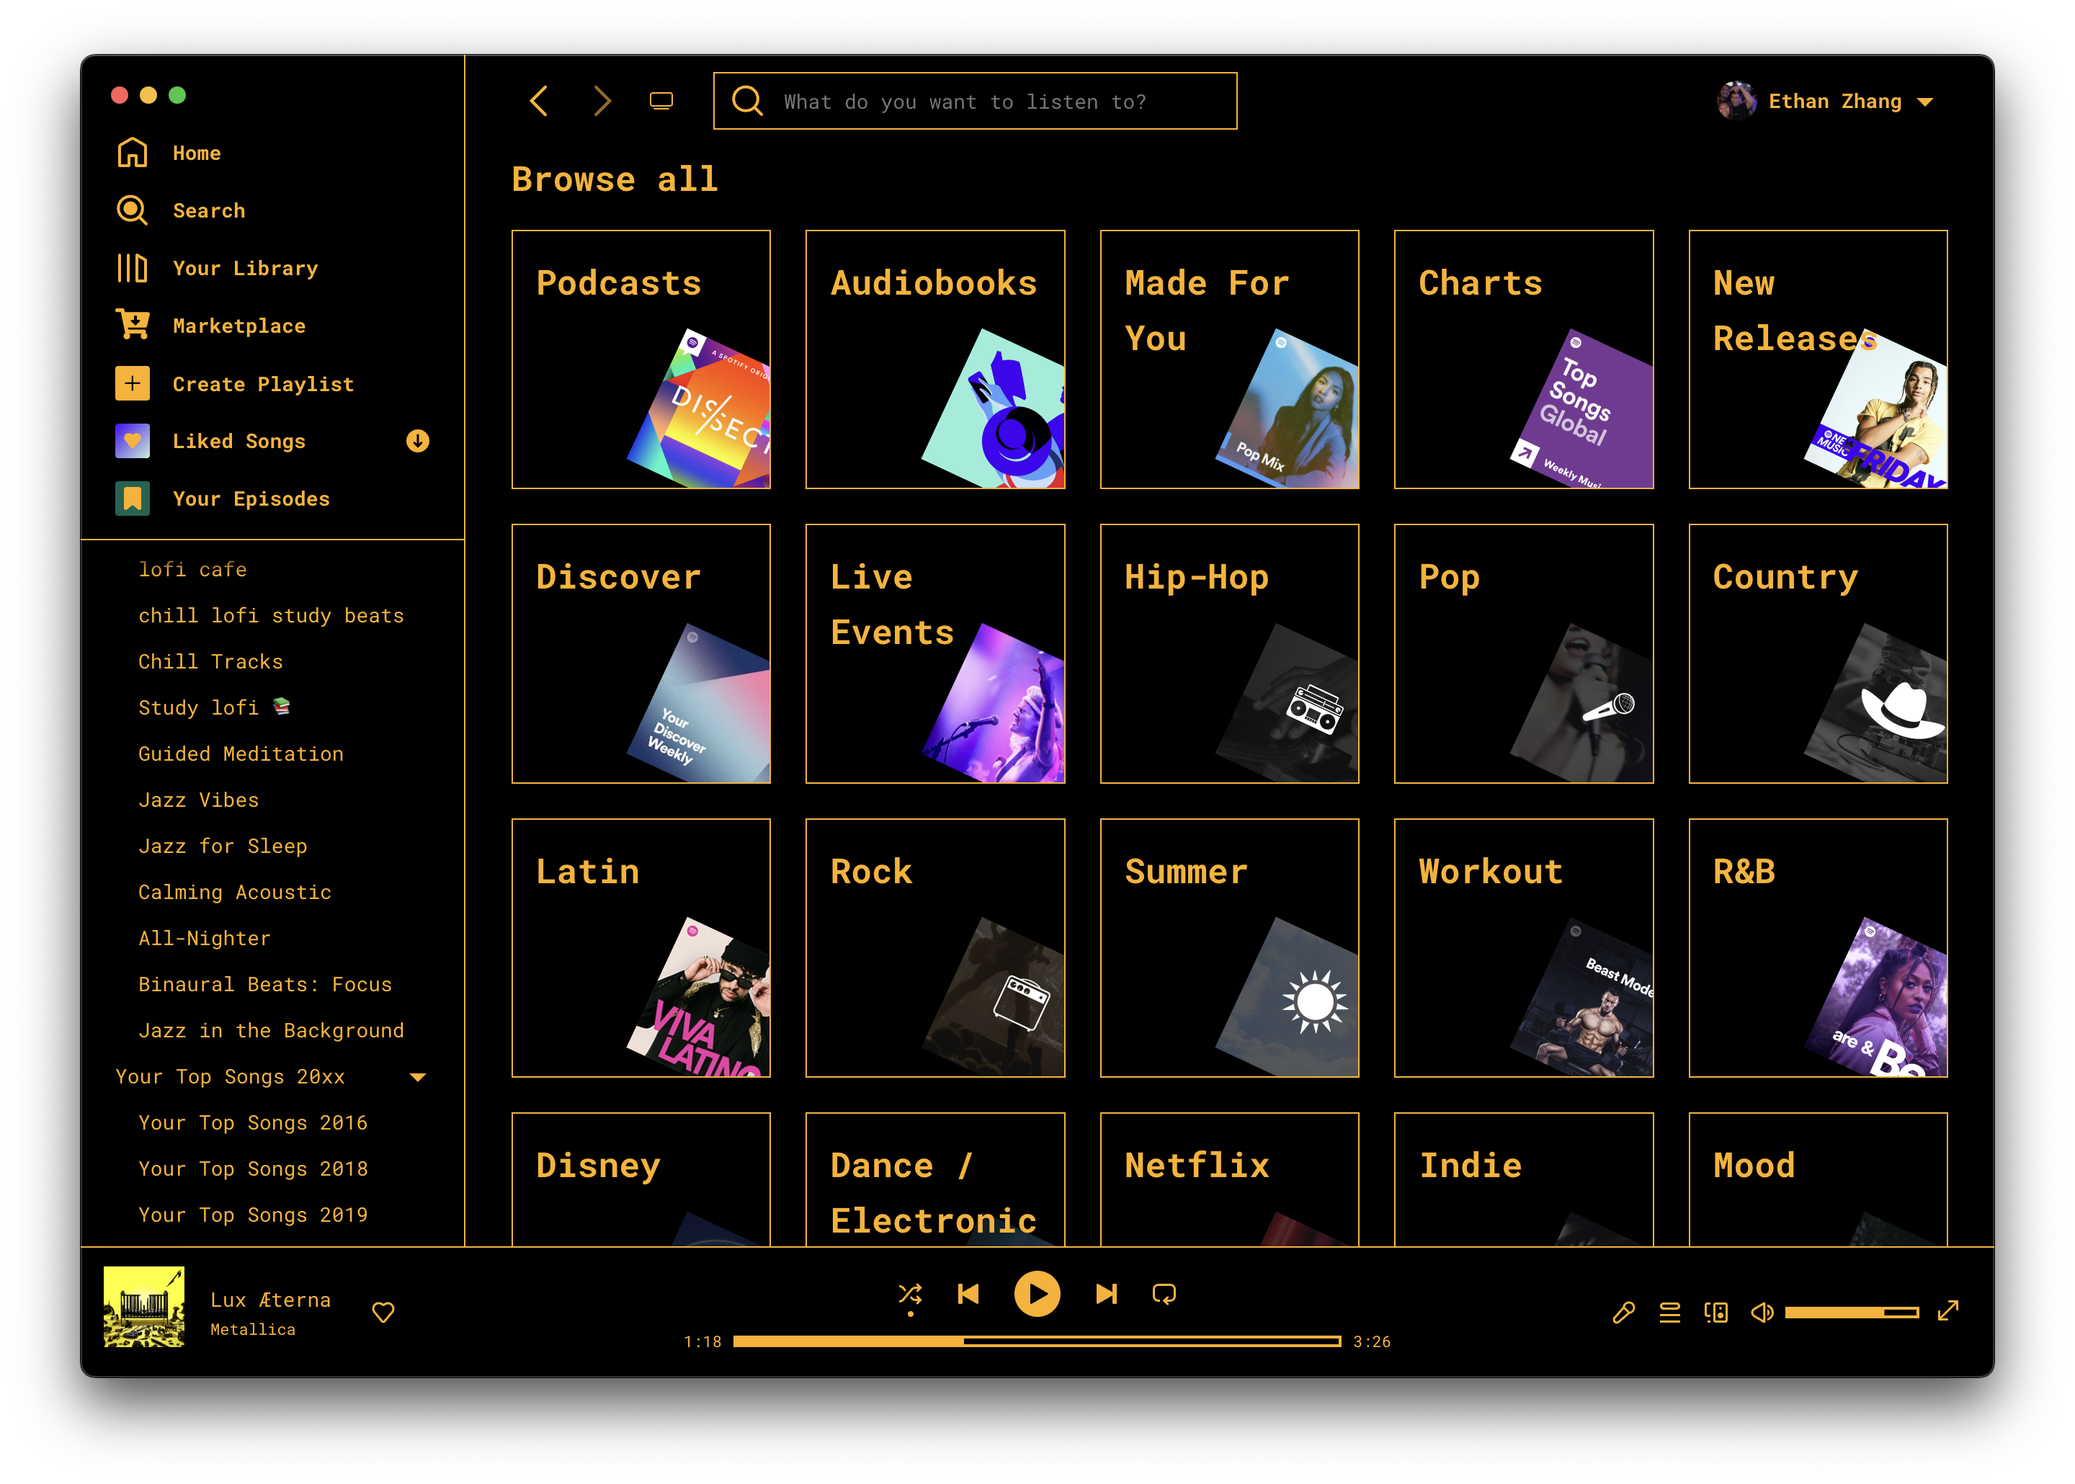
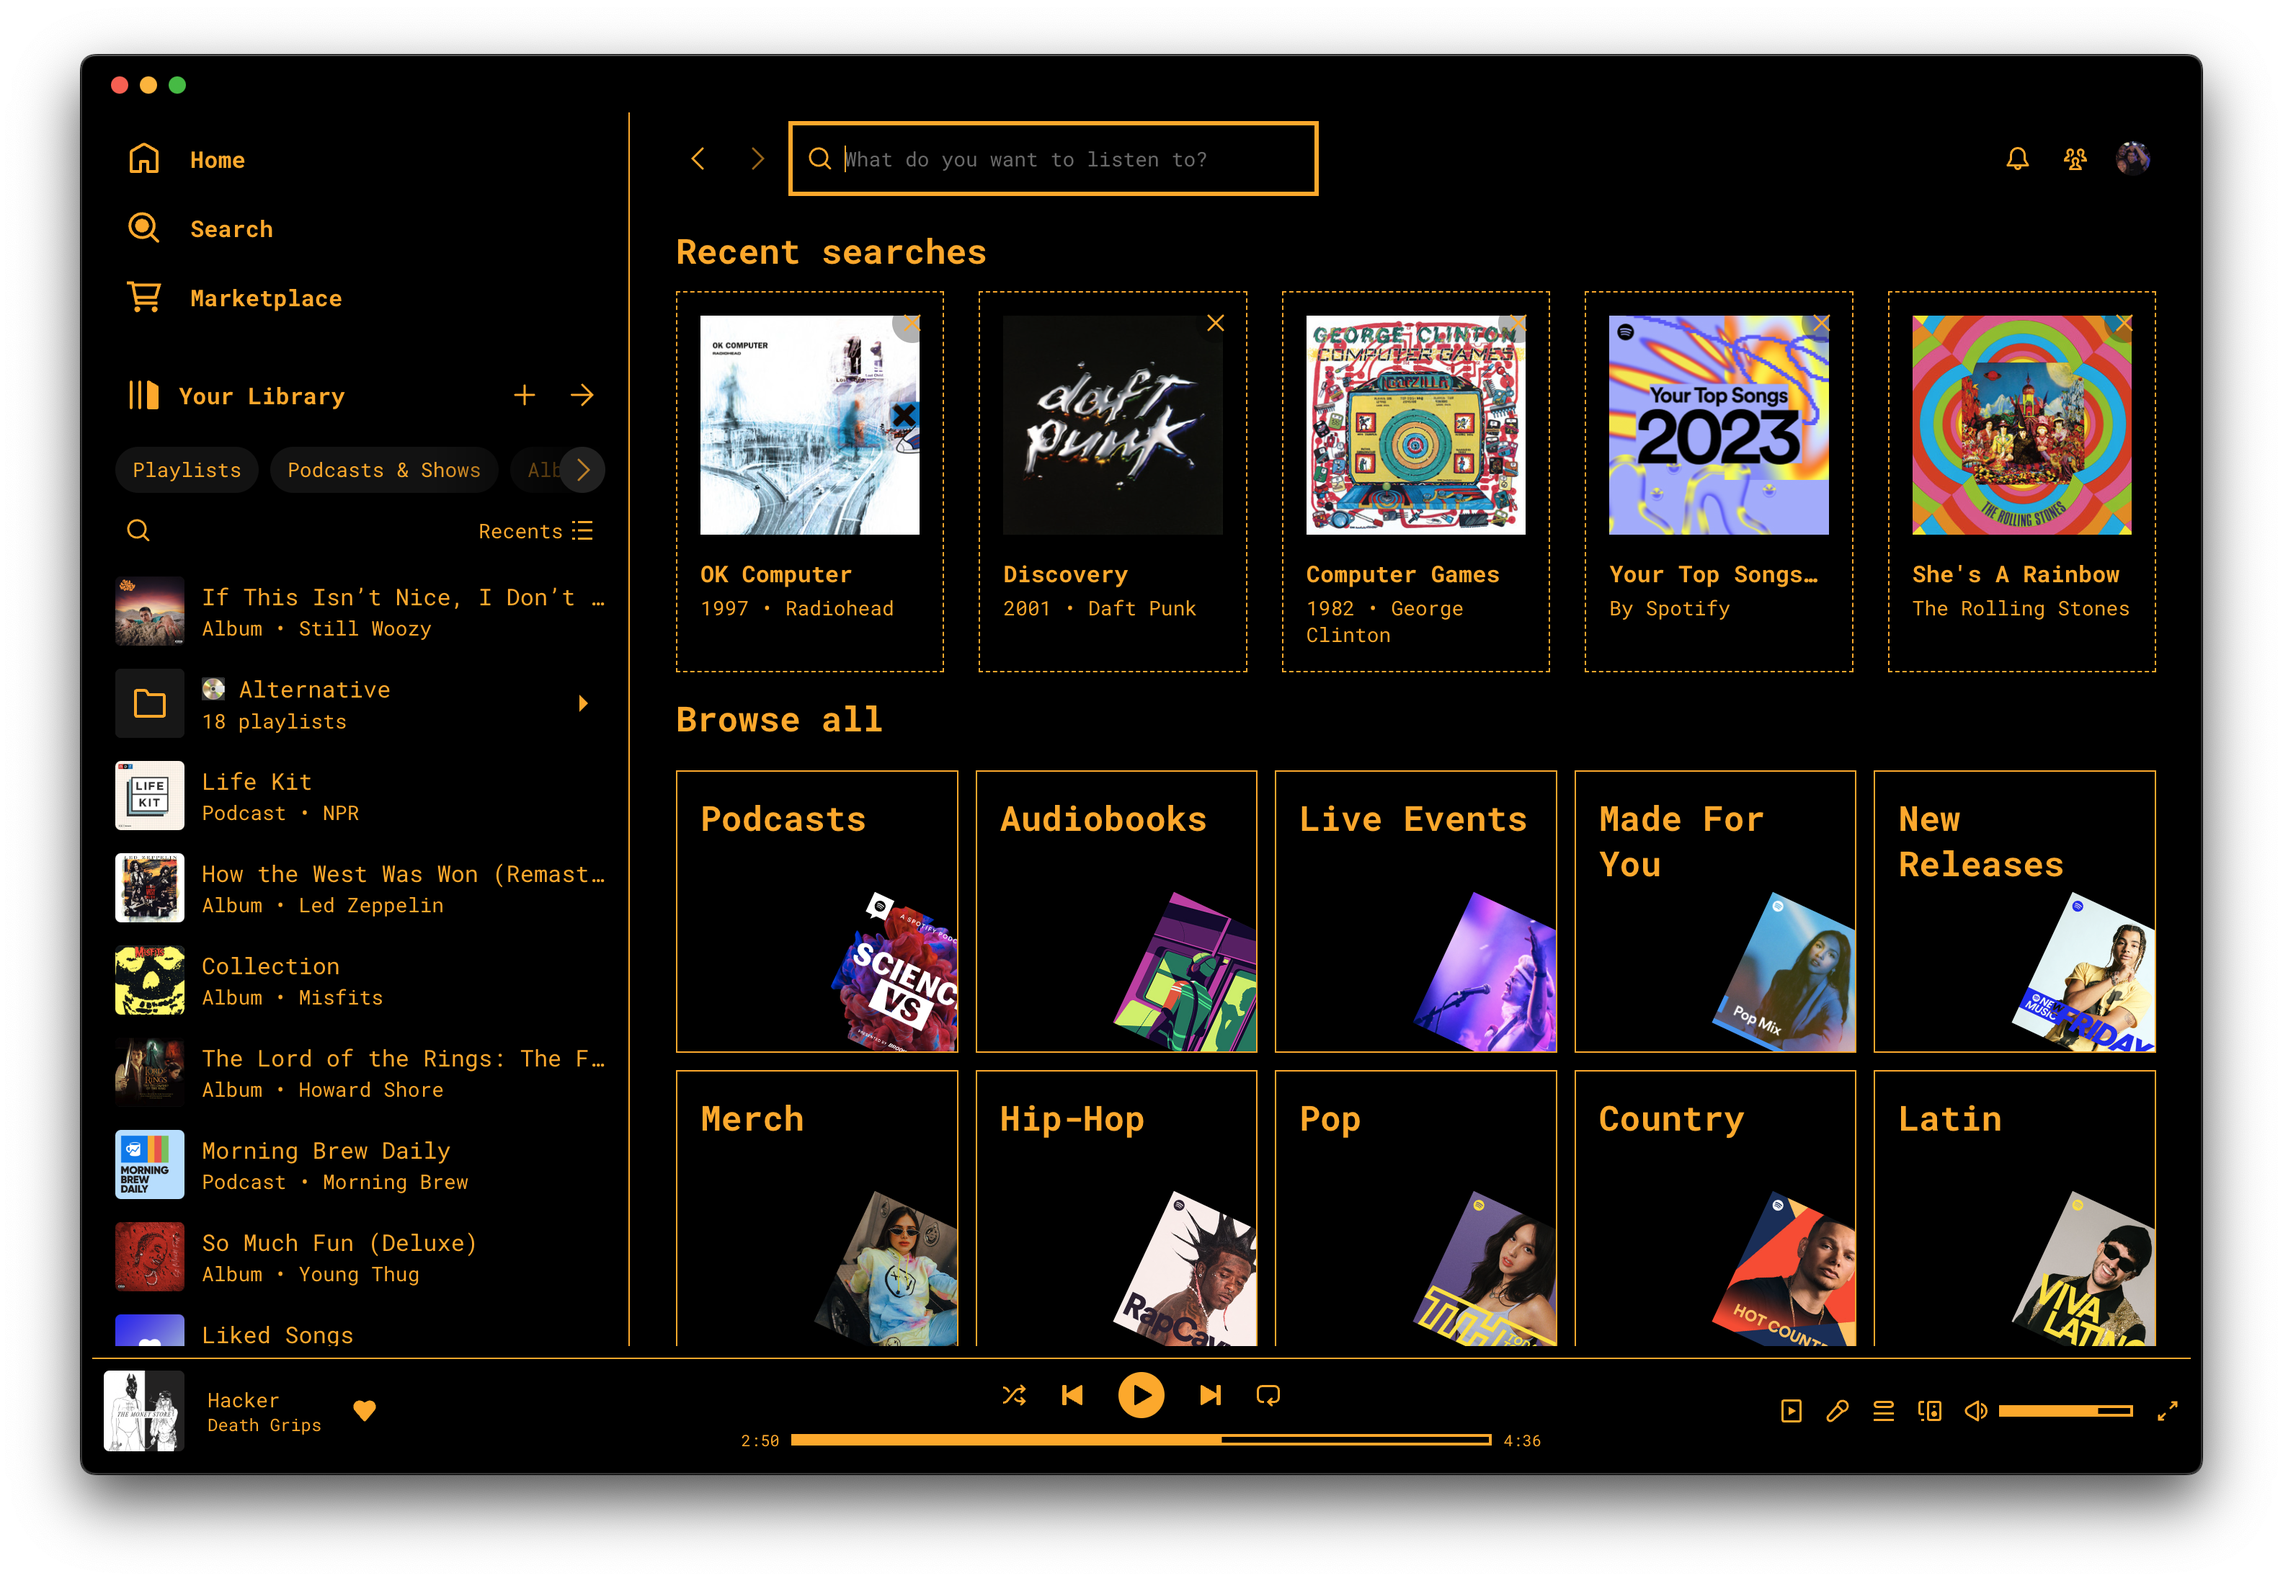
Update screenshots for new UI

Changed region(s): [[0.0312, 0.0311, 0.9688, 0.932], [0.25, 0.7767, 0.3125, 0.8078]]

diff --git a/user.css b/user.css
@@ -173,3 +173,17 @@ button {
 .button-module__button___hf2qg_marketplace {
 	background-color: var(--spice-main) !important;
 }
+
+.N2H1mslT6i_RSEIV_C9r,
+.ydlidzq2hSQrvGXn7yni {
+	background: var(--spice-main) !important;
+}
+
+.AdF5F5BxQXGeWkfceg9A,
+.RVgHI2ejYct8LjT1AO7m {
+	background-color: var(--spice-misc) !important;
+}
+
+.main-connectBar-connectBar.T3hkVxXuSbCYOD2GIeQd {
+	color: var(--text-base) !important;
+}

diff --git a/README.md b/README.md
@@ -1,9 +1,16 @@
 # 𝚃𝙴𝚁𝙼𝙸𝙵𝚈
-Retro terminal-inspired theme for the Spotify desktop app. [Spicetify CLI](https://github.com/spicetify/spicetify-cli) must be installed to use.
+A retro terminal-inspired theme for the Spotify desktop app. 
+
+### Prerequisites
+Install [Spicetify CLI](https://github.com/spicetify/spicetify-cli): \
+`curl -fsSL https://raw.githubusercontent.com/spicetify/spicetify-cli/master/install.sh | sh`
 
 ### Installation
-1. Clone this repo into a directory named `Termify` in your Spicetify Themes directory.
-2. Run one of the below commands based on which color scheme you want:
+1. Navigate to your [Spicetify Themes directory](https://spicetify.app/docs/development/themes/): \
+`cd ~/.config/spicetify/Themes`
+2. Clone this repository: \
+`git clone https://github.com/ethnzhng/Termify.git`
+3. Run one of the below commands based on which color scheme you want:
 
 #### Green
 `spicetify config current_theme Termify color_scheme Green && spicetify apply`
